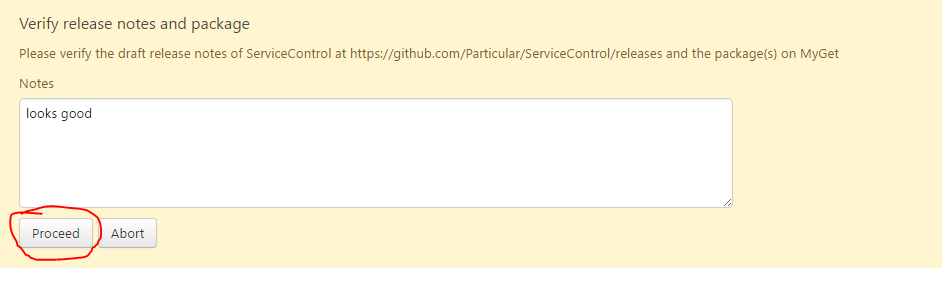
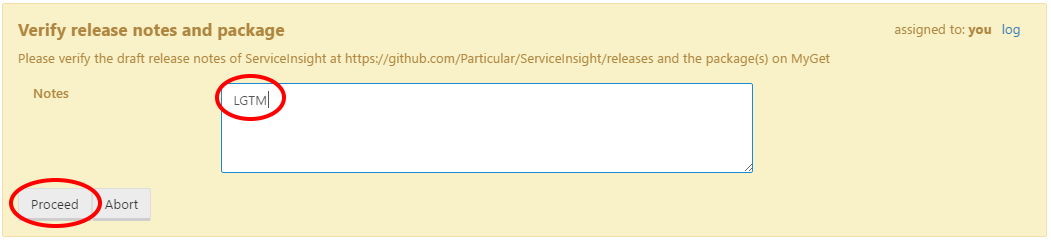
update the release guide after observations made during 1.6.2 release

Changed region(s): [[0.0, 0.0, 1.0, 0.9876]]

diff --git a/docs/releasing.md b/docs/releasing.md
@@ -1,39 +1,37 @@
 ## ServiceInsight releasing procedure
 
 ### 1. Merge change
-ServiceInsight uses [githubflow for versioning](http://gitversion.readthedocs.io/en/latest/git-branching-strategies/githubflow/), so there is no `develop` branch.
-So any fix/feature is worked on a branch/PR (there is no convention for naming these branches) and those get merged directly into `master`.
 
-By default a merge directly into master is considered a `patch` increment, if u want to up the `minor` or `major`, you merge the PR to a `release branch` (read section "Branch name" in http://gitversion.readthedocs.io/en/latest/more-info/version-increments/) and then merge that to `master`, or alternative u can set the `next-version` (read section "GitVersion.yml" in http://gitversion.readthedocs.io/en/latest/more-info/version-increments/) in the [yaml file](https://github.com/Particular/ServicePulse/blob/master/gitversionconfig.yaml).
+ServiceInsight uses [githubflow](http://gitversion.readthedocs.io/en/latest/git-branching-strategies/githubflow/) for versioning, so there is no `develop` branch. A fix/feature is committed to a branch (there is no convention for naming these branches) and is merged into `master` via a pull request.
+
+By default a merge into master is considered a `patch` increment, if you want to increment the `minor` or `major` instead, merge the PR to a `release-x.y.z` branch (see the "Branch name" section in [the GitVersion docs page](http://gitversion.readthedocs.io/en/latest/more-info/version-increments/)) and then merge the release branch to `master`, or alternatively u can set `next-version` in [the GitVersion YAML file](https://github.com/Particular/ServiceInsight/blob/master/gitversionconfig.yaml) (see the "GitVersion.yml" section in [the GitVersion docs page](http://gitversion.readthedocs.io/en/latest/more-info/version-increments/)).
 
 ### 2. Build using TeamCity
-Once you have your change merged into `master` (AVOID BUNDLING CHANGES, RELEASE OFTEN INSTEAD) and the [build is green](https://builds.particular.net/project.html?projectId=ServiceInsight) it is time to "Promote" the master build to "Deploy".
+
+Once the change is merged into `master` (**avoid bundling changes, release often instead**) and [the build](https://builds.particular.net/viewType.html?buildTypeId=ServiceInsight_Build&branch_ServiceInsight=<default>) is green, it's time to "Promote" the master build to "Deploy".
+
+**NOTE**: Before you do this, ensure that all the issues/PRs related to this version are associated with the milestone matching the version. Also ensure that **all the issues are closed** and **all the PRs are merged**. Otherwise, either the deployment will fail, or the issues/PRs will not be included in the release notes.
+
 ![Promote](Promote.png)
 ![Promote_dialog](Promote_dialog.png)
 
-Make sure that all the issues related to this build are in the matching milestone and are closed, otherwise the deployment will fail.
-
 ### 3. Deploy using OctopusDeploy
+
 You are now ready to go to [OctopusDeploy](http://deploy.particular.net/app#/projects/serviceinsight).
 You should have a new "Staging" build waiting to be released.  
+
 ![Octopus_staging](Octopus_staging.png)
 
-First step is to proof read the release notes that were auto generated (it is best to use an outsider for this job).  
+The first step is to proof-read the release notes that were auto generated (it is best to use someone else for this job).
+
 ![Octopus assign to me](Octopus_assign_to_me.png)
 
-This release notes are generated based on the issues/PRs titles associated to a milestone that matches the version you are about to release. 
-By default the release notes are very "simple", if you want you can edit them and add extra content to it to make them more appealing.
+This release notes are generated based on the titles of the issues/PRs associated with the milestone that matches the version you are about to release. By default, the release notes are very "simple". If you want, you can edit them and add extra content to make them more informative and/or appealing.
 
-**NOTE**: Ensure all issues/PRs are closed, otherwise they are not included in the release notes.
+Once you happy, approve the release notes:
 
-
-**NOTE 2**: The link at the end needs to be updated to:
-```
-You can download this release from our [website](http://particular.net/downloads).
-```
-
-Once you happy approve them:  
 ![looks good](looks_good.png)
 
-And then all is left to do is "Promote to Production".  
+All that is left to do is "Promote to Production".
+
 ![promote to prod](promote_to_prod.png)
